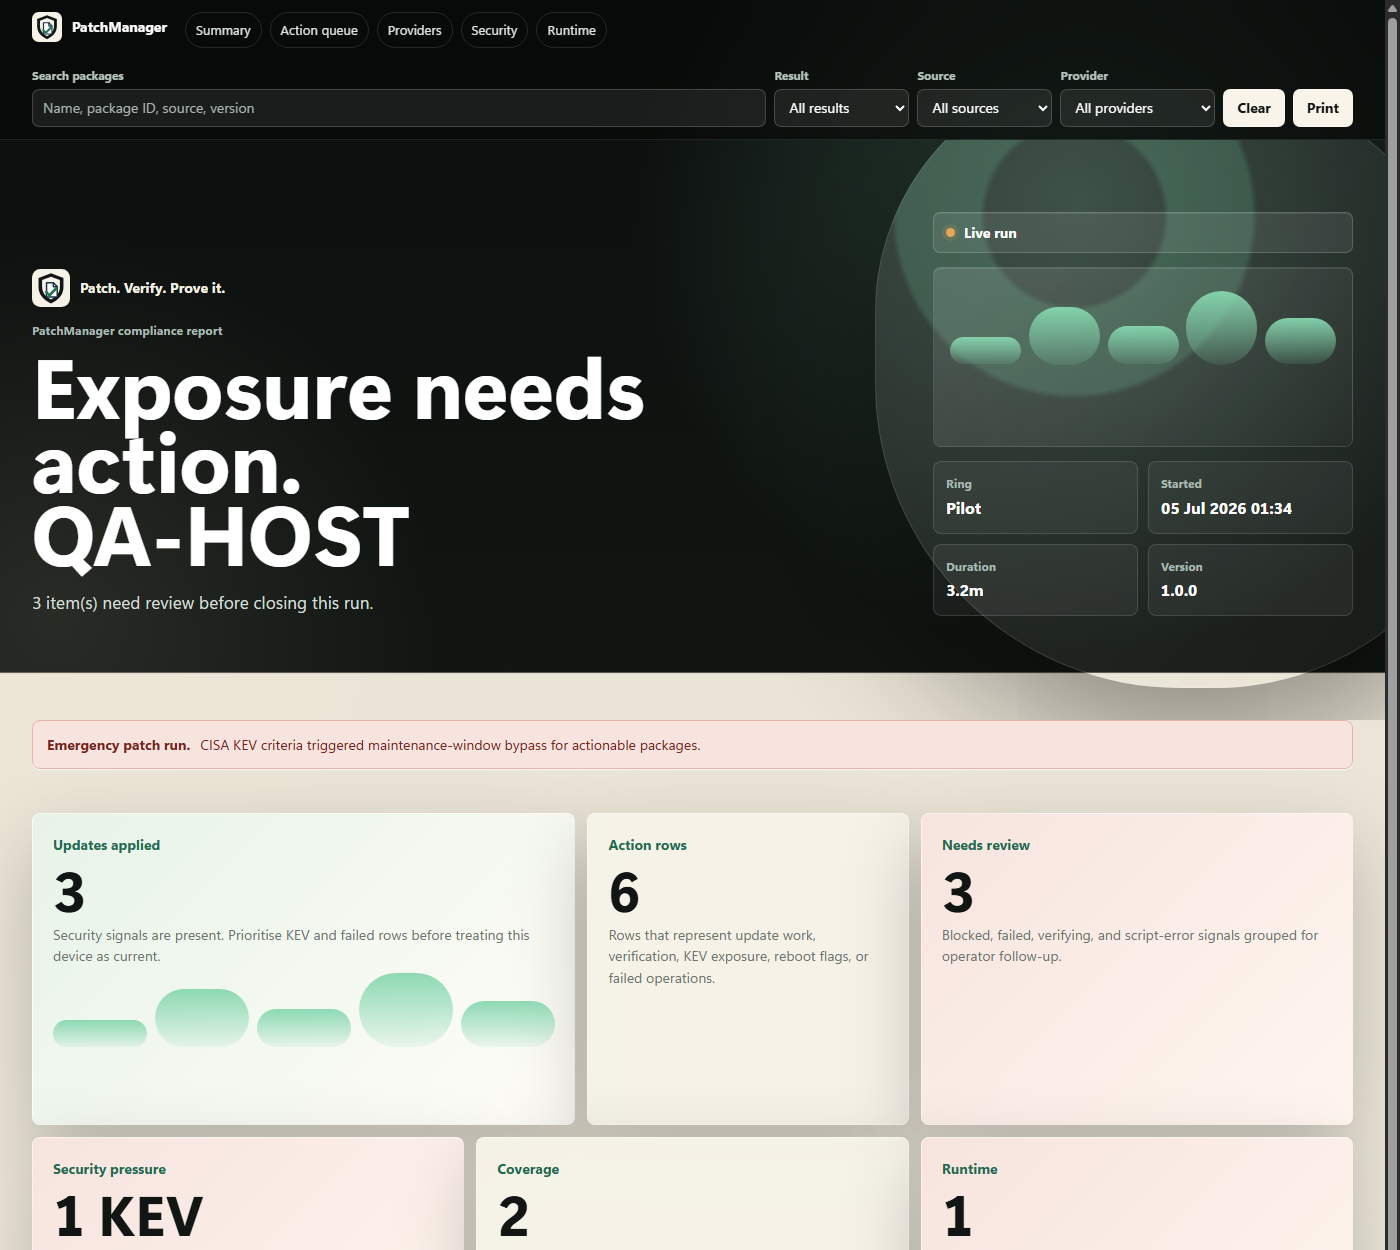
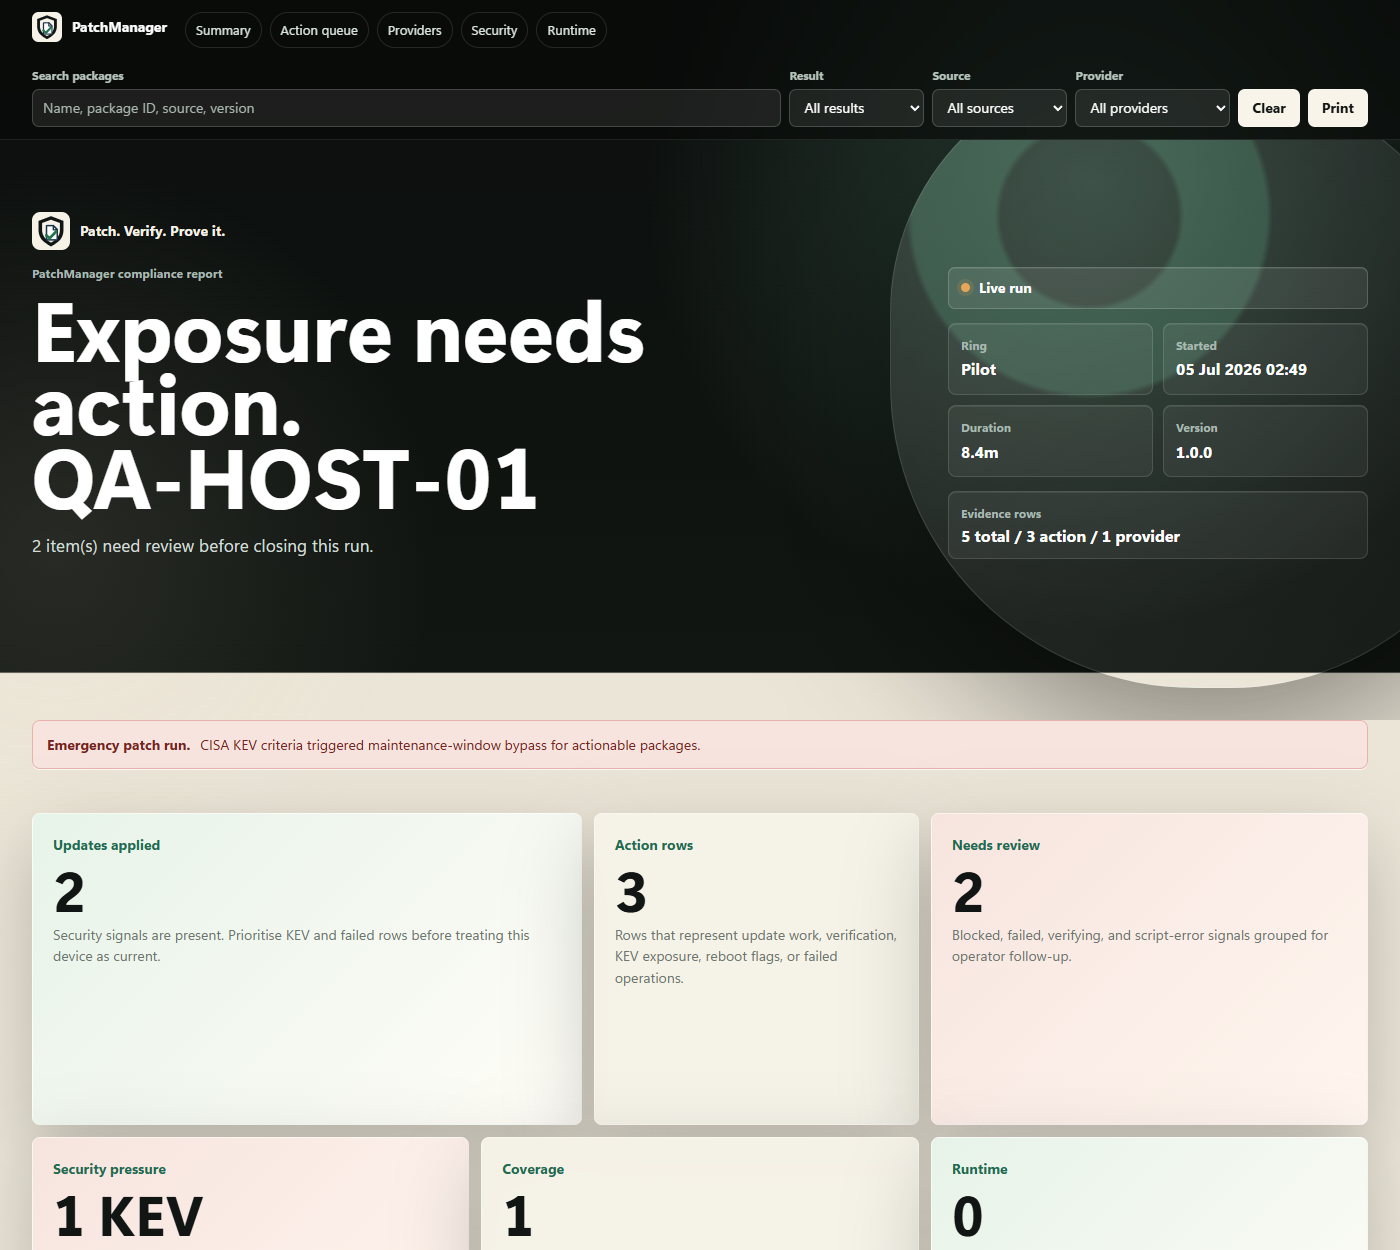
Update README report screenshots

diff --git a/README.md b/README.md
@@ -486,6 +486,8 @@ central share if configured):
 
 ## Fleet reporting
 
+![PatchManager fleet dashboard](docs/images/fleet-report-sample.png)
+
 Point every device's `Reporting.CentralReportPath` at the same share, then run
 the aggregator from anywhere that can read it (read-only, no elevation):
 